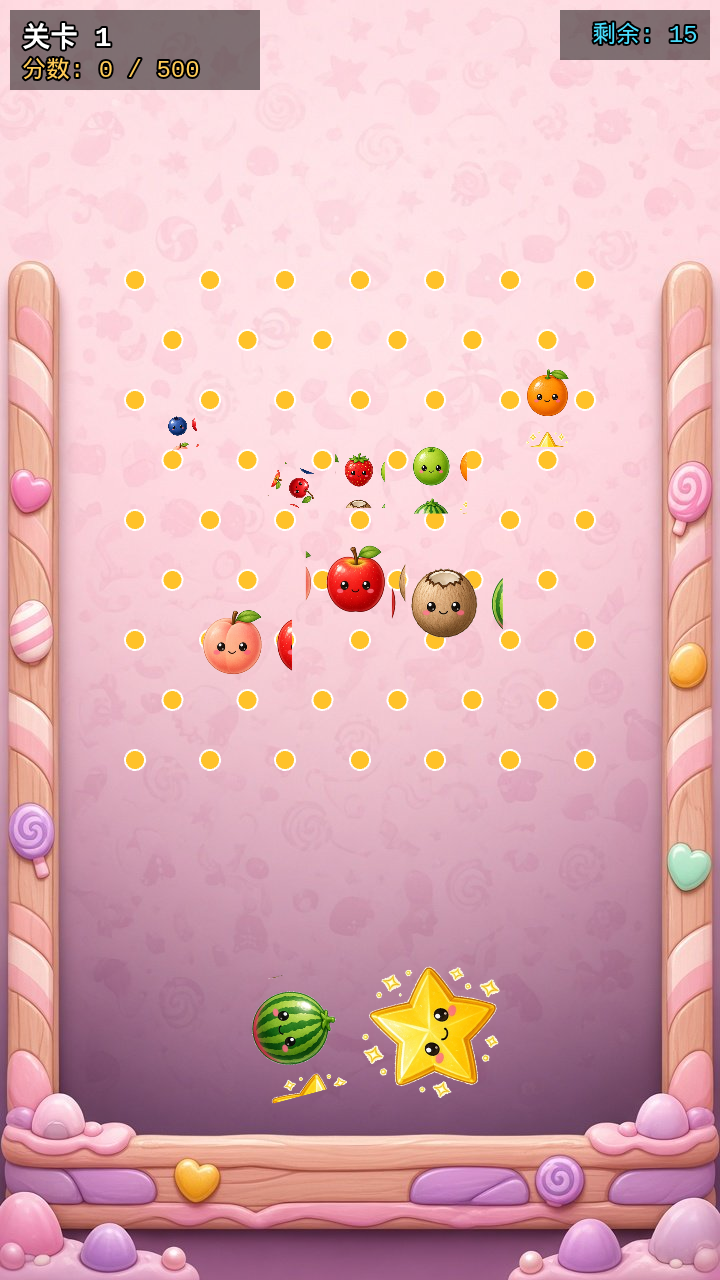
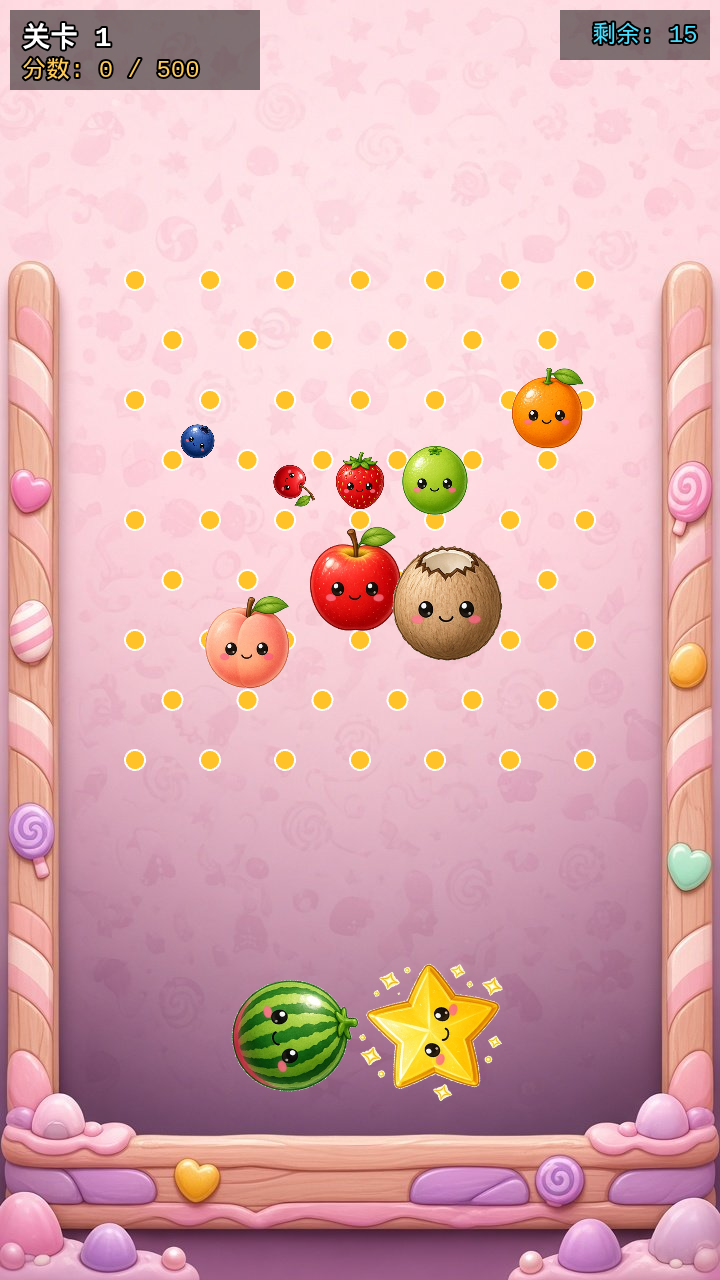
Replace JS sprite slicer with proper Python image processing
Rewrote sprite extraction using scipy image processing for clean results:
- Border-connected light background removal (flood-fill from edges)
- Connected components analysis per grid cell
- Largest component selection with special star sparkle handling
- Binary hole filling for solid masks
- Exact bbox crop and centering on square canvas (2% padding)
- Output 256x256 sprites with LANCZOS interpolation

Script output (all bboxes fill canvas as expected):
  blueberry (198, 202) (4, 2, 252, 254)
  cherry (205, 250) (24, 4, 231, 252)
  strawberry (192, 228) (21, 2, 235, 254)
  lime (191, 202) (8, 2, 247, 254)
  orange (198, 224) (16, 2, 240, 254)
  peach (198, 217) (12, 2, 243, 254)
  apple (197, 224) (16, 2, 239, 254)
  coconut (201, 211) (8, 2, 248, 254)
  watermelon (201, 232) (18, 2, 237, 254)
  star (238, 242) (4, 2, 252, 254)

Results:
- No stray fragments from neighboring fruits
- Clean centered sprites without artifacts
- Watermelon and star with sparkles properly touch candy bar
- Screenshot sha256: 87611b435d8ee14ad205d5c4551cce534128b47713eded75993fca8e5acce864

Updated:
- Replaced scripts/slice-sprites.js with scripts/slice_sprites.py
- Updated README art pipeline section with Python instructions
- Added art/sprites_preview.png to .gitignore
- Dependencies: numpy, scipy, pillow

diff --git a/scripts/slice_sprites.py b/scripts/slice_sprites.py
@@ -1,0 +1,61 @@
+#!/usr/bin/env python3
+"""
+Sprite Sheet Slicer - Python version with proper image processing
+Extracts individual fruit sprites from balls_sheet.jpg using:
+- Border-connected light background removal
+- Connected components analysis
+- Largest component per grid cell
+- Special handling for star sparkles
+- Fill holes, crop to bbox, center on square canvas
+"""
+
+import numpy as np
+from PIL import Image
+from scipy import ndimage
+
+src = Image.open('art/balls_sheet.jpg').convert('RGB')
+a = np.asarray(src).astype(int)
+H, W, _ = a.shape
+light = (a.min(axis=2) > 225) & ((a.max(axis=2) - a.min(axis=2)) < 30)
+lab, _ = ndimage.label(light)
+border = set(np.unique(np.concatenate([lab[0], lab[-1], lab[:,0], lab[:,-1]]))) - {0}
+fg = ~np.isin(lab, list(border))
+fg = ndimage.binary_opening(fg, iterations=2)
+comp, n = ndimage.label(fg)
+sizes = ndimage.sum(fg, comp, range(1, n+1))
+cents = ndimage.center_of_mass(fg, comp, range(1, n+1))
+names = ['blueberry', 'cherry', 'strawberry', 'lime', 'orange', 'peach', 'apple', 'coconut', 'watermelon', 'star']
+cw, ch = W/5, H/2
+out = []
+for i, nm in enumerate(names):
+  r, c = divmod(i, 5)
+  cand = sorted([(sizes[k], k+1) for k, (y, x) in enumerate(cents) if int(x//cw) == c and int(y//ch) == r], reverse=True)
+  mask = comp == cand[0][1]
+  ys, xs = np.nonzero(mask)
+  y0, y1, x0, x1 = ys.min(), ys.max(), xs.min(), xs.max()
+  if nm == 'star':
+    for s, k in cand[1:]:
+      m = comp == k
+      yy, xx = np.nonzero(m)
+      if yy.min() > y0-40 and yy.max() < y1+40 and xx.min() > x0-40 and xx.max() < x1+40:
+        mask |= m
+  mask = ndimage.binary_fill_holes(mask)
+  ys, xs = np.nonzero(mask)
+  y0, y1, x0, x1 = ys.min(), ys.max()+1, xs.min(), xs.max()+1
+  rgba = np.dstack([a, np.where(mask, 255, 0)]).astype(np.uint8)[y0:y1, x0:x1]
+  h, w = rgba.shape[:2]
+  s = max(h, w)
+  pad = int(s * 0.02)
+  S = s + 2*pad
+  canvas = np.zeros((S, S, 4), np.uint8)
+  oy, ox = (S-h)//2, (S-w)//2
+  canvas[oy:oy+h, ox:ox+w] = rgba
+  im = Image.fromarray(canvas).resize((256, 256), Image.LANCZOS)
+  im.save(f'assets/sprites/ball_{i+1}_{nm}.png')
+  out.append(im)
+  print(nm, (w, h), im.split()[3].getbbox())
+
+sheet = Image.new('RGBA', (256*5, 512), (255, 0, 255, 255))
+for i, im in enumerate(out):
+  sheet.alpha_composite(im, ((i%5)*256, (i//5)*256))
+sheet.save('art/sprites_preview.png')

diff --git a/README.md b/README.md
@@ -351,7 +351,7 @@ const platform: IPlatform =
 
 - `art/balls_sheet.jpg` - 10个球体角色的原始精灵图（5x2网格，1280x720）
 - `art/background.jpg` - 糖果风格的游戏背景（720x1280）
-- `assets/sprites/ball_*.png` - 处理后的透明PNG精灵（128x128）
+- `assets/sprites/ball_*.png` - 处理后的透明PNG精灵（256x256）
 - `assets/background.jpg` - 优化后的背景图（83.1 KB）
 
 ### 重新生成精灵
@@ -359,15 +359,20 @@ const platform: IPlatform =
 当美术资源更新时，运行精灵切片脚本：
 
 ```bash
-node scripts/slice-sprites.js
+python3 scripts/slice_sprites.py
 ```
 
-脚本功能：
+脚本功能（使用scipy图像处理）：
 - 从精灵图中提取10个球体（按阅读顺序：5列×2行）
-- 移除白色背景，生成透明PNG
-- 自动裁剪和填充为正方形
-- 缩放到128x128，压缩优化（PNG Level 9）
-- 同时优化背景图为720x1280（JPEG质量85）
+- 边界连接的亮色背景移除（flood-fill from edges）
+- 连通分量分析，每个网格单元取最大组件
+- 星星特殊处理：包含周围的闪光效果
+- 填充空洞，裁剪到精确边界框
+- 在正方形画布上居中（2%填充）
+- 缩放到256x256高分辨率（LANCZOS插值）
+- 生成预览图 `art/sprites_preview.png`（不提交到git）
+
+**依赖**: `pip install numpy scipy pillow`
 
 ### 球体名称映射
 
